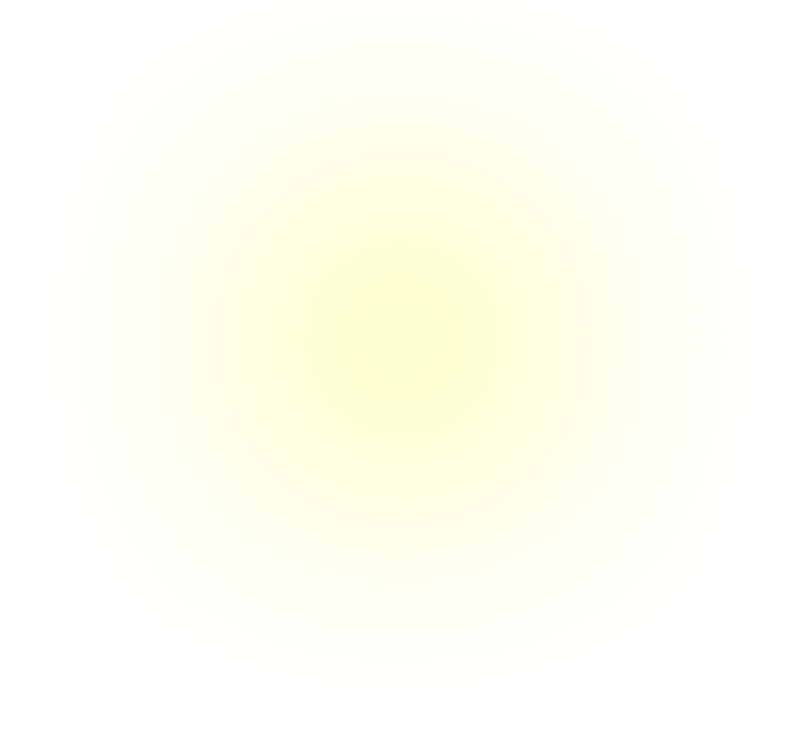
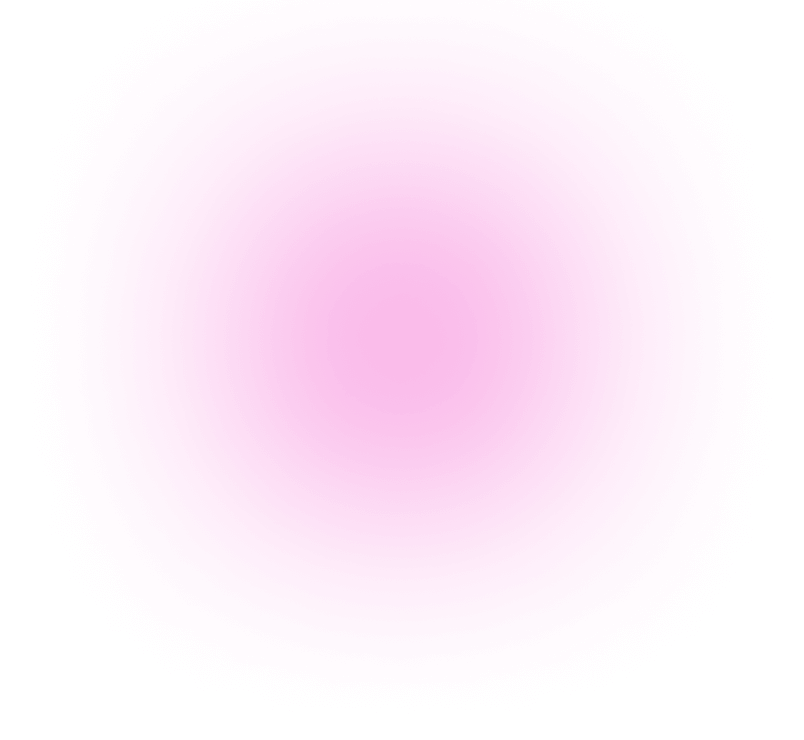
update

Changed region(s): [[0.2177, 0.1554, 0.7774, 0.777]]

diff --git a/diligent pack/diligent/index.html b/diligent pack/diligent/index.html
@@ -1003,6 +1003,139 @@
       </section>
       <!--End Testimonials-->
 
+      <!--Start Working Process One-->
+      <section class="working-process-one">
+        <div class="working-process-one__shape1 float-bob-x">
+          <img
+            src="assets/img/shape/working-process__shape1.png"
+            alt="shapes"
+          />
+        </div>
+        <div class="working-process-one__shape2">
+          <img
+            src="assets/img/shape/working-process__shape2.png"
+            alt="shapes"
+          />
+        </div>
+        <div class="working-process-one__shape5 float-bob-y">
+          <img
+            src="assets/img/shape/working-process__shape5.png"
+            alt="shapes"
+          />
+        </div>
+        <div class="container">
+          <div class="sec-title-four text-center">
+            <div class="sub-title">
+              <h4>Nuestro Proceso de Trabajo</h4>
+            </div>
+            <h2>¿Cómo Trabajamos Contigo?</h2>
+          </div>
+          <div class="row">
+            <!--Start Single Working Process One-->
+            <div
+              class="col-xl-4 col-lg-4 wow fadeInLeft"
+              data-wow-delay="0ms"
+              data-wow-duration="1500ms"
+            >
+              <div class="working-process-one__single text-center">
+                <div class="icon-box">
+                  <i class="icon-consultation"></i>
+                  <div class="overlay-list">
+                    <span>01</span>
+                  </div>
+                </div>
+                <div class="content-box">
+                  <div class="title-box">
+                    <h5>Primer Paso</h5>
+                    <h3><a href="#">Consulta Personalizada</a></h3>
+                  </div>
+                  <div class="text-box">
+                    <p>
+                      Escuchamos tus necesidades y te ofrecemos una consulta
+                      detallada sobre las opciones de seguro que mejor se
+                      adaptan a ti.
+                    </p>
+                  </div>
+                </div>
+              </div>
+            </div>
+            <!--End Single Working Process One-->
+
+            <!--Start Single Working Process One-->
+            <div
+              class="col-xl-4 col-lg-4 wow fadeInRight"
+              data-wow-delay="100ms"
+              data-wow-duration="1500ms"
+            >
+              <div class="working-process-one__single text-center">
+                <div class="working-process-one__shape3">
+                  <img
+                    src="assets/img/shape/working-process__shape3.png"
+                    alt="shapes"
+                  />
+                </div>
+                <div class="icon-box">
+                  <i class="icon-recommendations"></i>
+                  <div class="overlay-list">
+                    <span>02</span>
+                  </div>
+                </div>
+                <div class="content-box">
+                  <div class="title-box">
+                    <h5>Segundo Paso</h5>
+                    <h3><a href="#">Recomendaciones Personalizadas</a></h3>
+                  </div>
+                  <div class="text-box">
+                    <p>
+                      Basado en tu perfil, te recomendamos las mejores opciones
+                      de cobertura de salud.
+                    </p>
+                  </div>
+                </div>
+              </div>
+            </div>
+            <!--End Single Working Process One-->
+
+            <!--Start Single Working Process One-->
+            <div
+              class="col-xl-4 col-lg-4 wow fadeInLeft"
+              data-wow-delay="200ms"
+              data-wow-duration="1500ms"
+            >
+              <div class="working-process-one__single text-center">
+                <div class="working-process-one__shape4">
+                  <img
+                    src="assets/img/shape/working-process__shape4.png"
+                    alt="shapes"
+                  />
+                </div>
+                <div class="icon-box">
+                  <i class="icon-policy-selection"></i>
+                  <div class="overlay-list">
+                    <span>03</span>
+                  </div>
+                </div>
+                <div class="content-box">
+                  <div class="title-box">
+                    <h5>Tercer Paso</h5>
+                    <h3><a href="#">Selección y Asesoría Continua</a></h3>
+                  </div>
+                  <div class="text-box">
+                    <p>
+                      Te ayudamos a elegir el plan ideal y te acompañamos en
+                      todo el proceso para garantizar que siempre estés
+                      cubierto.
+                    </p>
+                  </div>
+                </div>
+              </div>
+            </div>
+            <!--End Single Working Process One-->
+          </div>
+        </div>
+      </section>
+      <!--End Working Process One-->
+
       <!--Start Project Two-->
       <section class="project-two">
         <div class="container">
@@ -1310,137 +1443,6 @@
         </div>
       </section>
       <!--End Team Two-->
-
-      <!--Start Working Process One-->
-      <section class="working-process-one">
-        <div class="working-process-one__shape1 float-bob-x">
-          <img
-            src="assets/img/shape/working-process__shape1.png"
-            alt="shapes"
-          />
-        </div>
-        <div class="working-process-one__shape2">
-          <img
-            src="assets/img/shape/working-process__shape2.png"
-            alt="shapes"
-          />
-        </div>
-        <div class="working-process-one__shape5 float-bob-y">
-          <img
-            src="assets/img/shape/working-process__shape5.png"
-            alt="shapes"
-          />
-        </div>
-        <div class="container">
-          <div class="sec-title-four text-center">
-            <div class="sub-title">
-              <h4>Our Working Process</h4>
-            </div>
-            <h2>How Does We Work?</h2>
-          </div>
-          <div class="row">
-            <!--Start Single Working Process One-->
-            <div
-              class="col-xl-4 col-lg-4 wow fadeInLeft"
-              data-wow-delay="0ms"
-              data-wow-duration="1500ms"
-            >
-              <div class="working-process-one__single text-center">
-                <div class="icon-box">
-                  <i class="icon-problem-analysis"></i>
-                  <div class="overlay-list">
-                    <span>01</span>
-                  </div>
-                </div>
-                <div class="content-box">
-                  <div class="title-box">
-                    <h5>First Step</h5>
-                    <h3><a href="#">Problem Analysis</a></h3>
-                  </div>
-                  <div class="text-box">
-                    <p>
-                      All trials are our Pro plan by default you can try out all
-                      features.
-                    </p>
-                  </div>
-                </div>
-              </div>
-            </div>
-            <!--End Single Working Process One-->
-
-            <!--Start Single Working Process One-->
-            <div
-              class="col-xl-4 col-lg-4 wow fadeInRight"
-              data-wow-delay="100ms"
-              data-wow-duration="1500ms"
-            >
-              <div class="working-process-one__single text-center">
-                <div class="working-process-one__shape3">
-                  <img
-                    src="assets/img/shape/working-process__shape3.png"
-                    alt="shapes"
-                  />
-                </div>
-                <div class="icon-box">
-                  <i class="icon-find-solutions"></i>
-                  <div class="overlay-list">
-                    <span>02</span>
-                  </div>
-                </div>
-                <div class="content-box">
-                  <div class="title-box">
-                    <h5>Second Step</h5>
-                    <h3><a href="#">Find Solutions</a></h3>
-                  </div>
-                  <div class="text-box">
-                    <p>
-                      All trials are our Pro plan by default you can try out all
-                      features.
-                    </p>
-                  </div>
-                </div>
-              </div>
-            </div>
-            <!--End Single Working Process One-->
-
-            <!--Start Single Working Process One-->
-            <div
-              class="col-xl-4 col-lg-4 wow fadeInLeft"
-              data-wow-delay="200ms"
-              data-wow-duration="1500ms"
-            >
-              <div class="working-process-one__single text-center">
-                <div class="working-process-one__shape4">
-                  <img
-                    src="assets/img/shape/working-process__shape4.png"
-                    alt="shapes"
-                  />
-                </div>
-                <div class="icon-box">
-                  <i class="icon-build-develop"></i>
-                  <div class="overlay-list">
-                    <span>03</span>
-                  </div>
-                </div>
-                <div class="content-box">
-                  <div class="title-box">
-                    <h5>Third Step</h5>
-                    <h3><a href="#">Build and Develop</a></h3>
-                  </div>
-                  <div class="text-box">
-                    <p>
-                      All trials are our Pro plan by default you can try out all
-                      features.
-                    </p>
-                  </div>
-                </div>
-              </div>
-            </div>
-            <!--End Single Working Process One-->
-          </div>
-        </div>
-      </section>
-      <!--End Working Process One-->
 
       <!--Start Blog Three-->
       <section class="blog-three">

diff --git a/diligent pack/diligent/assets/css/style.css b/diligent pack/diligent/assets/css/style.css
@@ -475,7 +475,7 @@ h6 a {
 }
 
 .sec-title .sub-title h4 {
-  color: var(--thm-primary);
+  color: var(--thm-primary) !important;
   font-size: 20px;
   line-height: 30px;
   font-weight: 700;
@@ -3493,7 +3493,7 @@ label {
   background: linear-gradient(
     90deg,
     rgba(255, 255, 255, 0) 0%,
-    rgba(202, 243, 51, 0.24) 44.12%,
+    #826daf89 44.12%,
     rgba(255, 255, 255, 0) 86.35%
   );
 }
